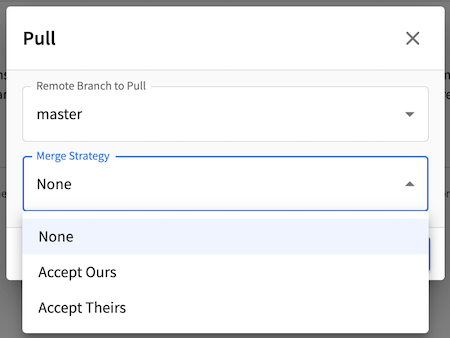
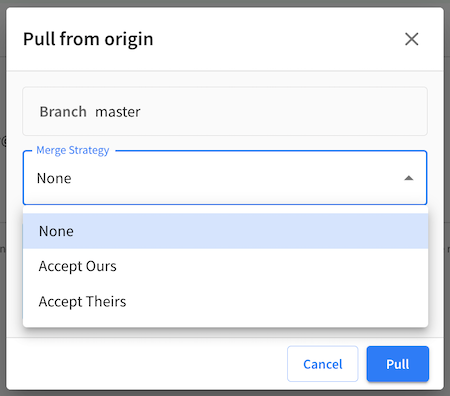
[master] Update pull from remote dialog #5610

diff --git a/source/site-administrators/project-tools-git.rst b/source/site-administrators/project-tools-git.rst
@@ -54,9 +54,17 @@ To get updates from the remote repositories, click on the down arrow next to the
     :alt: Git - Pull from Remote Repository
 	:align: center
 
+    |
+
+A dialog will open for pulling:
+
+.. image:: /_static/images/site-admin/project-tools-pull-from-remote-dlg.png
+    :alt: Remote Repositories - Pull from Remote Repository Dialog
+    :align: center
+
 |
 
-You will then be given some options when Studio pulls from the remote repository:
+You will then be given some options for the merge strategy when Studio pulls from the remote repository by clicking on the dropdown:
 
 .. image:: /_static/images/site-admin/project-tools-pull-from-remote-options.png
     :alt: Git - Pull from Remote Repository Options
